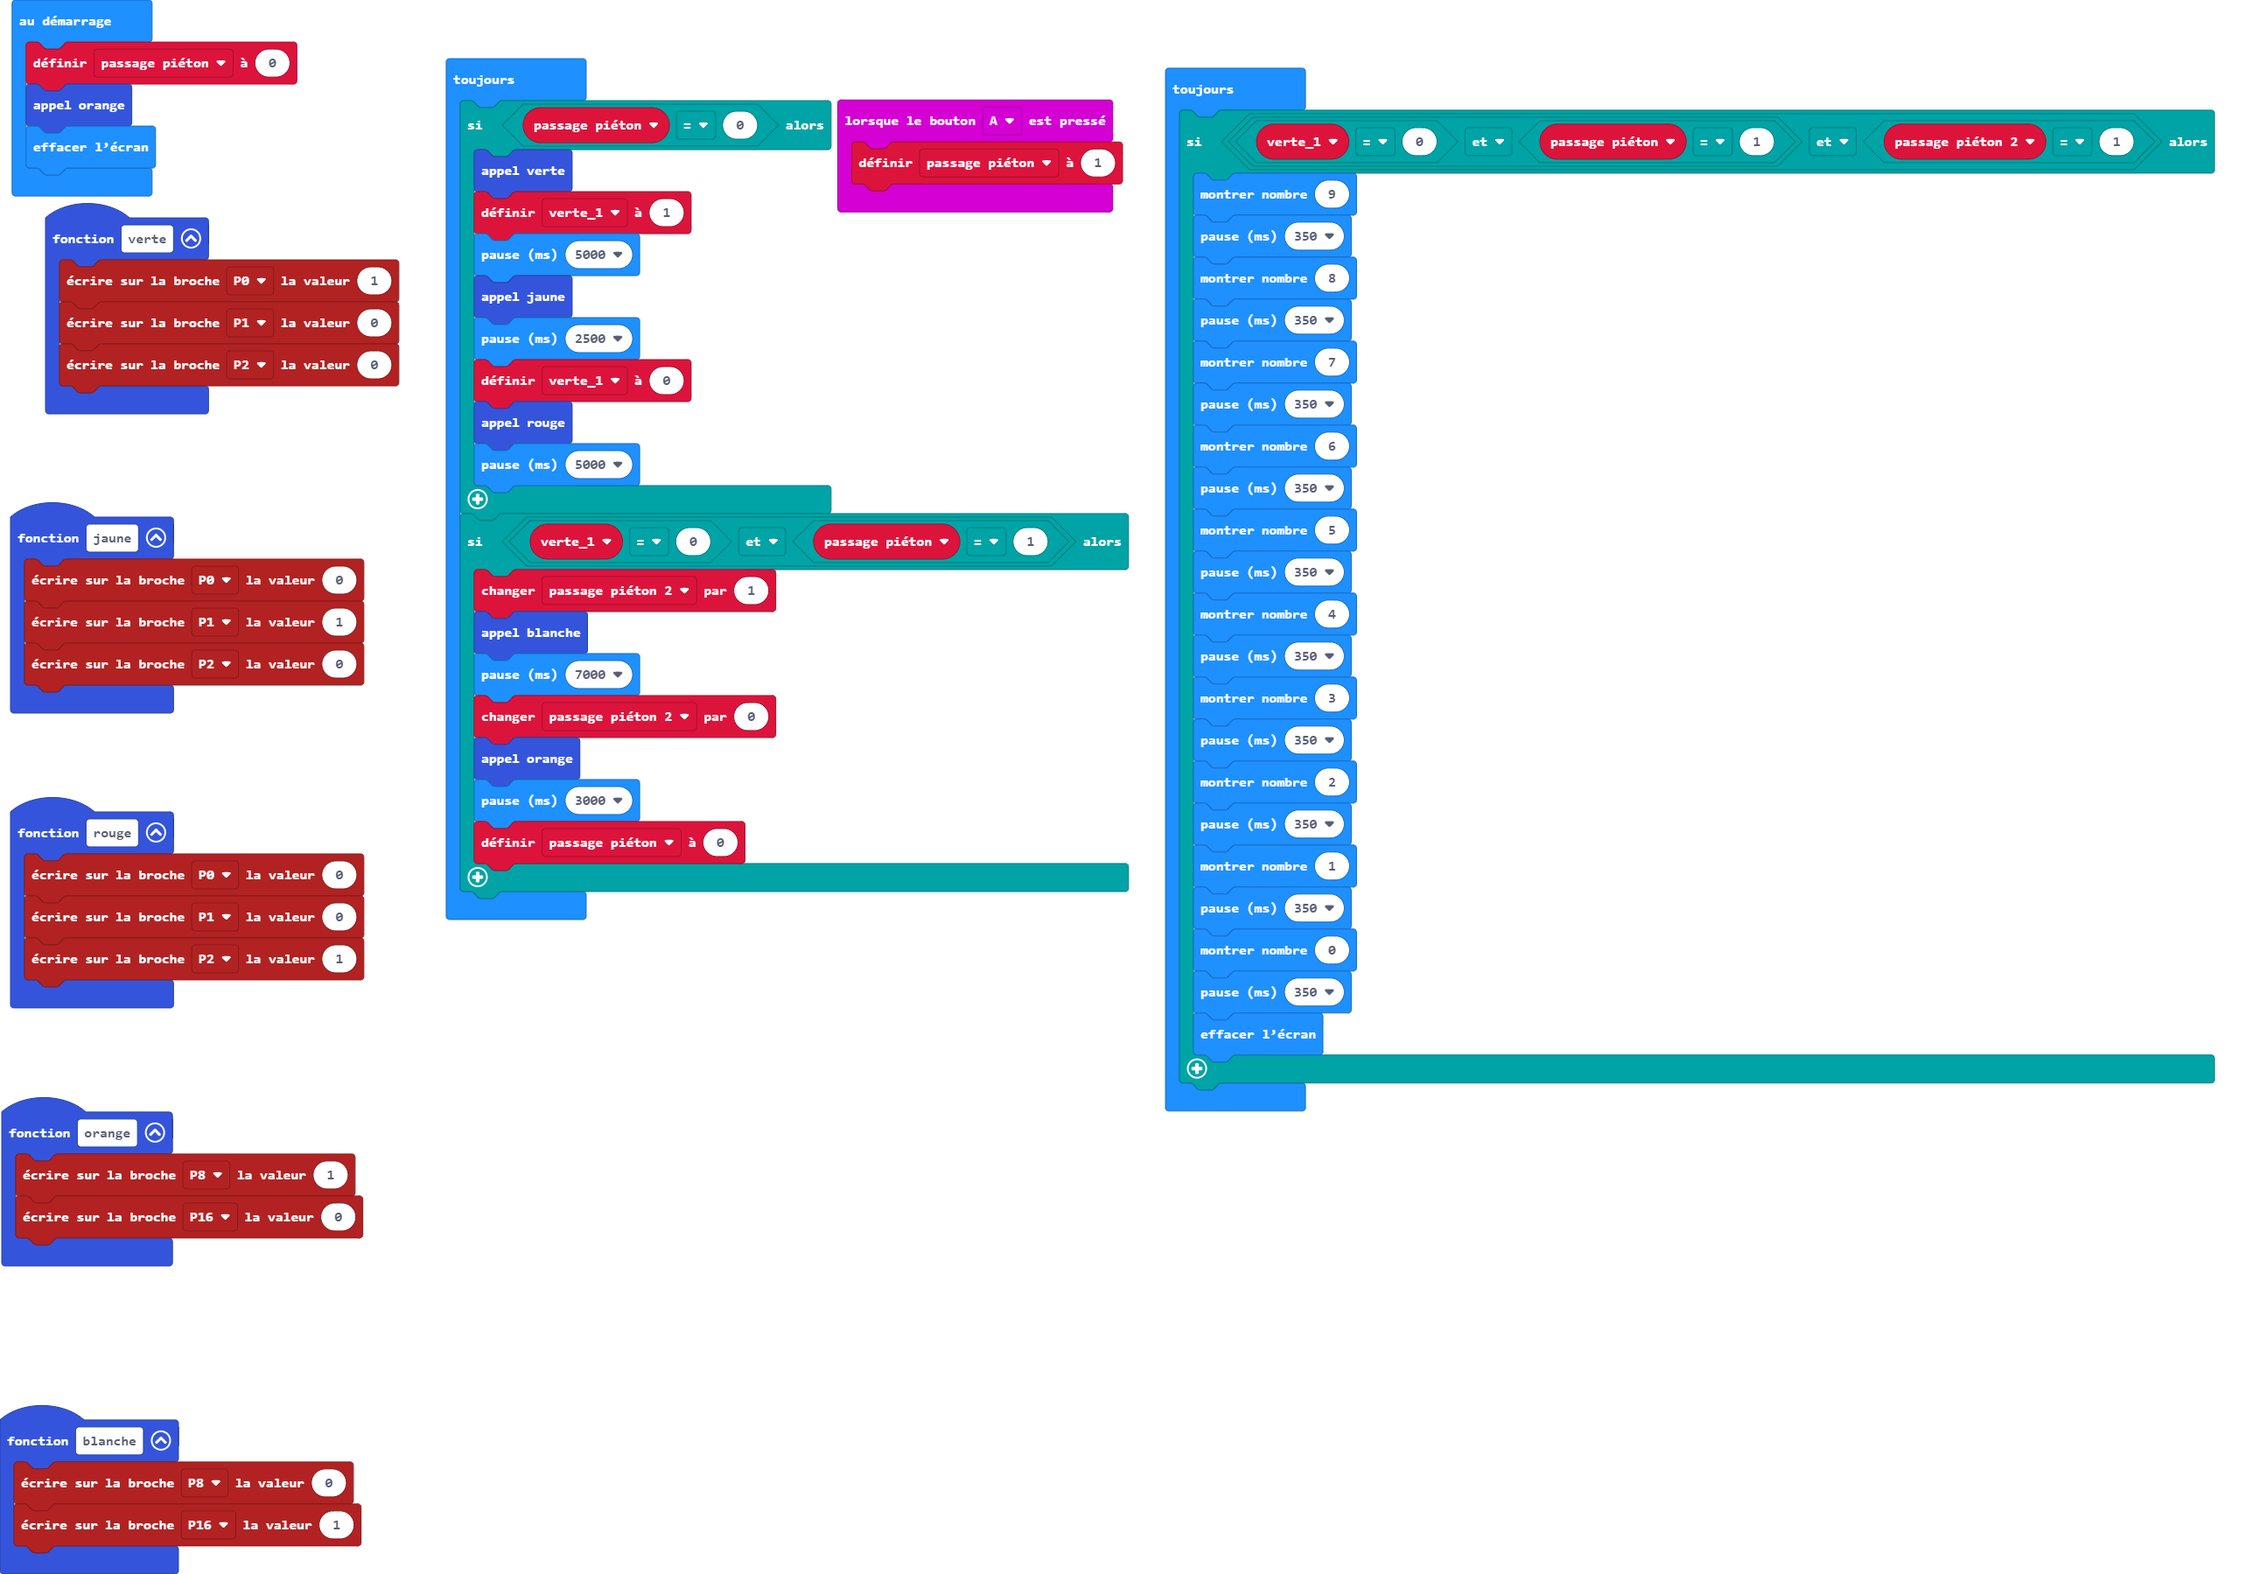
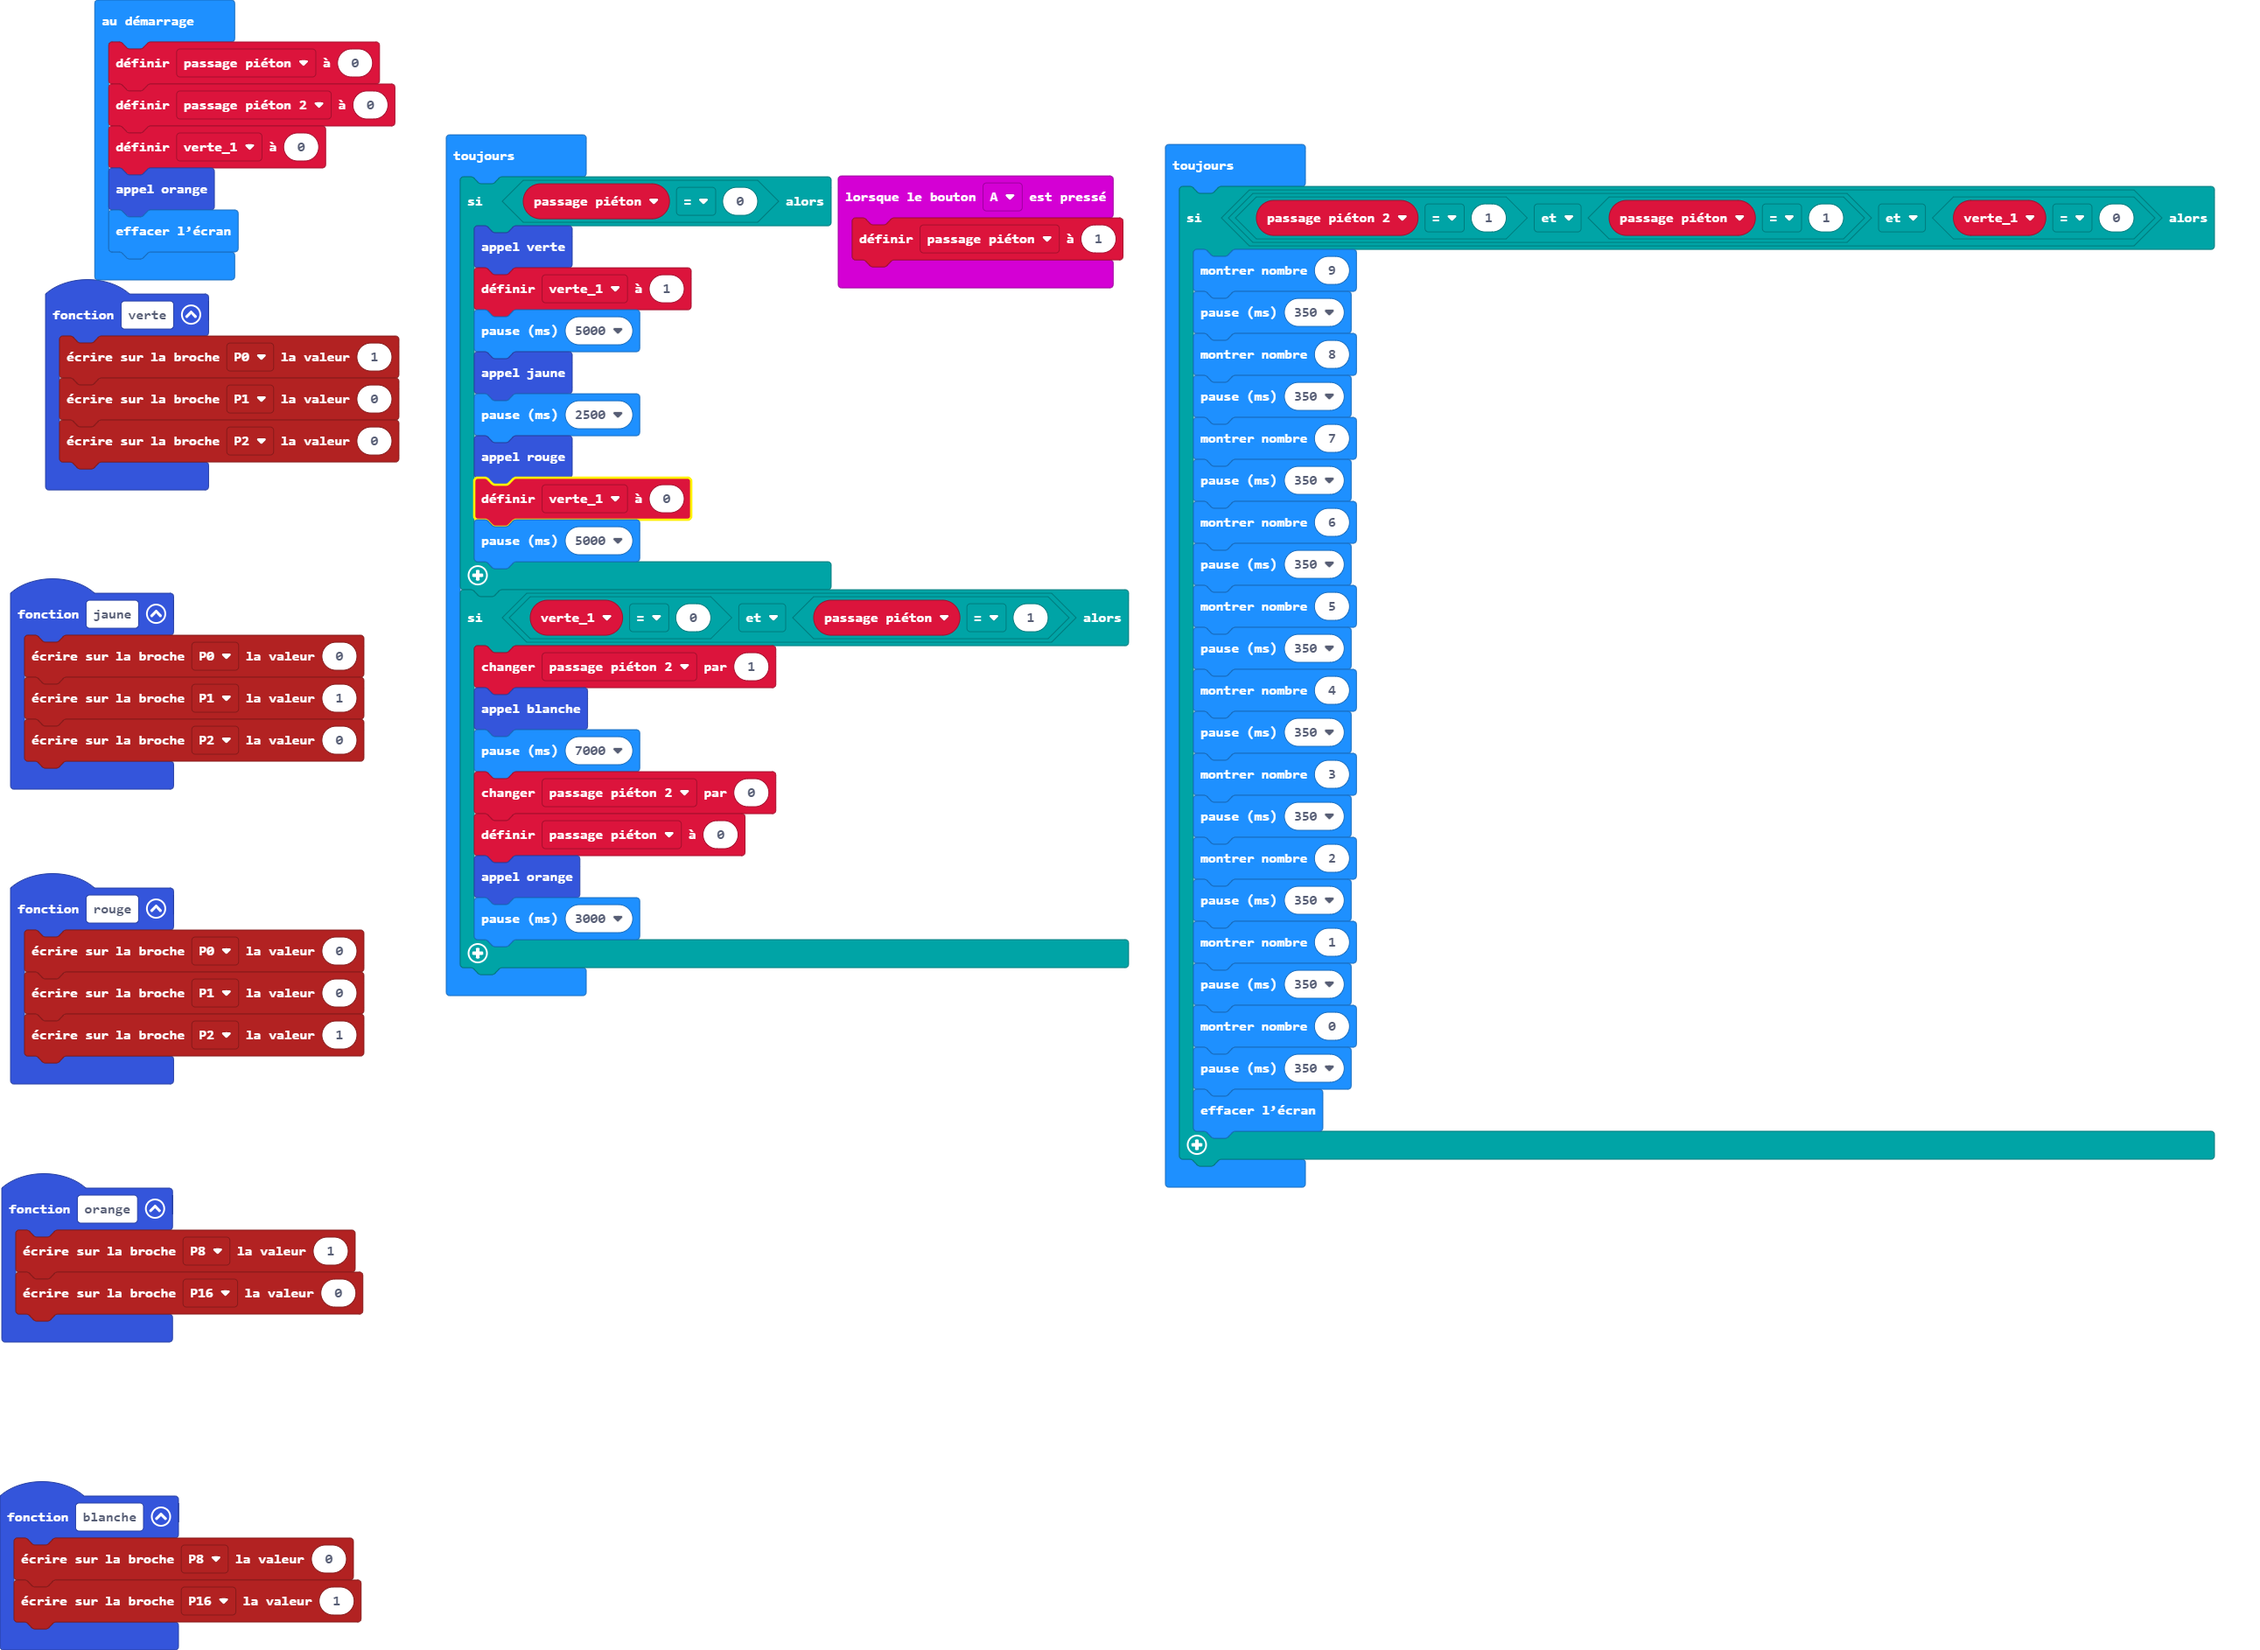
Mettre à jour main.blocks, main.ts

Changed region(s): [[0.0, 0.0, 0.9911, 0.8405], [0.0, 0.8716, 0.1549, 0.9961]]

diff --git a/main.ts b/main.ts
@@ -24,10 +24,10 @@ function rouge () {
     pins.digitalWritePin(DigitalPin.P1, 0)
     pins.digitalWritePin(DigitalPin.P2, 1)
 }
-let passage_piéton_2 = 0
-let verte_1 = 0
 let passage_piéton = 0
 passage_piéton = 0
+let passage_piéton_2 = 0
+let verte_1 = 0
 orange()
 basic.clearScreen()
 basic.forever(function () {
@@ -37,8 +37,8 @@ basic.forever(function () {
         basic.pause(5000)
         jaune()
         basic.pause(2500)
-        verte_1 = 0
         rouge()
+        verte_1 = 0
         basic.pause(5000)
     }
     if (verte_1 == 0 && passage_piéton == 1) {
@@ -46,13 +46,13 @@ basic.forever(function () {
         blanche()
         basic.pause(7000)
         passage_piéton_2 += 0
+        passage_piéton = 0
         orange()
         basic.pause(3000)
-        passage_piéton = 0
     }
 })
 basic.forever(function () {
-    if (verte_1 == 0 && passage_piéton == 1 && passage_piéton_2 == 1) {
+    if (passage_piéton_2 == 1 && passage_piéton == 1 && verte_1 == 0) {
         basic.showNumber(9)
         basic.pause(350)
         basic.showNumber(8)
